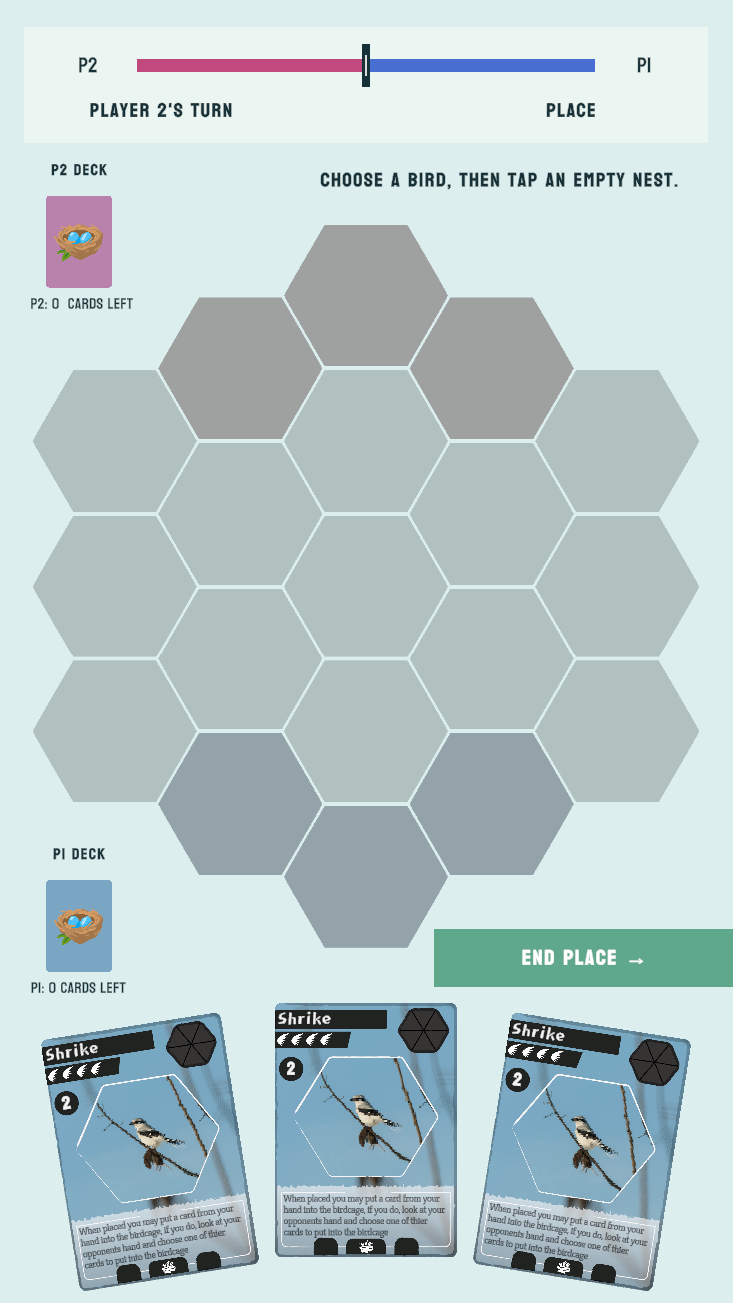
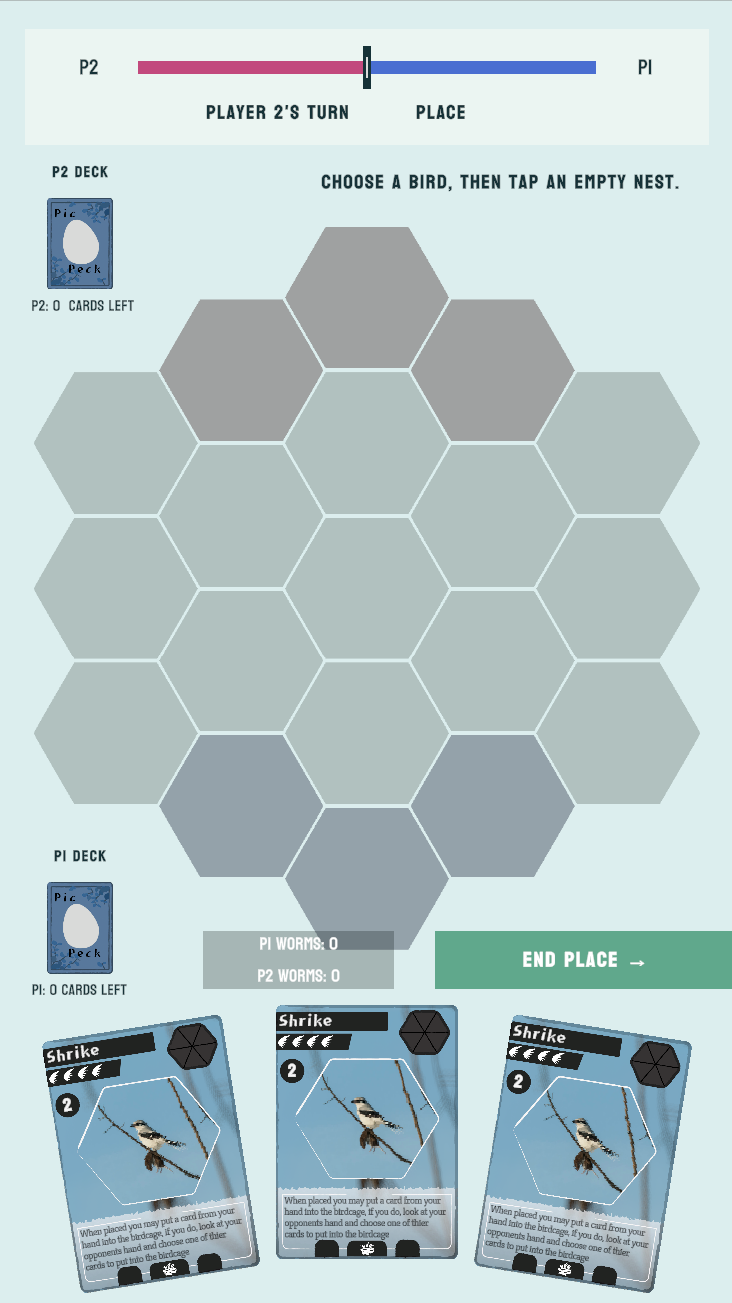
Update Pic Peck gameplay screenshot with new card backs

diff --git a/games/pic-peck/index.html b/games/pic-peck/index.html
@@ -18,6 +18,6 @@
     <a class="wordmark" href="../../" aria-label="Miles Sanger home">Miles Sanger<span class="wordmark-dot" aria-hidden="true">.</span></a>
     <nav aria-label="Main navigation"><a href="../../#work">Games</a><a href="../../about/">About</a><a href="../../#writing">Writing</a><a class="nav-contact" href="mailto:behrenha@usc.edu">Contact</a></nav>
   </header>
-  <main id="main" class="project-page wrap"><a class="back-link text-link" href="../"><span aria-hidden="true">←</span> All games</a><section class="project-intro"><h1>Pic Peck<span class="name-period">.</span></h1><p class="detail-roles">Director · Lead Designer · Producer · Lead Engineer</p><div class="detail-facts"><div><span>Team</span><p>5 people</p></div><div><span>Timeline</span><p>April 2026–present</p></div><div><span>Status</span><p>In development</p></div></div><p class="detail-description">A digital collectable card game based on identifying and taking pictures of birds in the wild.</p><img class="detail-image detail-logo" src="../../assets/games/pic-peck-logo.png" alt="Pic Peck logo: a blue illustrated card with an egg and leafy branches" width="240" height="336" loading="lazy"><img class="detail-image detail-portrait" src="../../assets/games/pic-peck.png" alt="Pic Peck gameplay: a hexagonal board, bird cards, and player decks" width="733" height="1303" loading="lazy"><div class="detail-links"><p class="quiet-label">Demo forthcoming.</p></div><section class="project-gallery" aria-labelledby="screenshots-title"><h2 id="screenshots-title">Screenshots</h2><div class="screenshot-grid card-gallery"><a class="screenshot-link" href="../../assets/games/screenshots/pic-peck-1.webp" target="_blank" rel="noopener noreferrer" style="--image-width:207px" aria-label="Pic Peck Little Blue Heron card (open full image in a new tab)"><img src="../../assets/games/screenshots/pic-peck-1.webp" alt="Pic Peck Little Blue Heron card" width="207" height="273" loading="lazy"></a><a class="screenshot-link" href="../../assets/games/screenshots/pic-peck-2.webp" target="_blank" rel="noopener noreferrer" style="--image-width:673px" aria-label="Six Pic Peck bird cards, including Common Swift, Western Barn Owl, and Common Ostrich (open full image in a new tab)"><img src="../../assets/games/screenshots/pic-peck-2.webp" alt="Six Pic Peck bird cards, including Common Swift, Western Barn Owl, and Common Ostrich" width="673" height="579" loading="lazy"></a></div></section></section><div class="project-closing"><span>Next project</span><a href="../voidwatch/">Voidwatch <span aria-hidden="true">→</span></a></div></main>
+  <main id="main" class="project-page wrap"><a class="back-link text-link" href="../"><span aria-hidden="true">←</span> All games</a><section class="project-intro"><h1>Pic Peck<span class="name-period">.</span></h1><p class="detail-roles">Director · Lead Designer · Producer · Lead Engineer</p><div class="detail-facts"><div><span>Team</span><p>5 people</p></div><div><span>Timeline</span><p>April 2026–present</p></div><div><span>Status</span><p>In development</p></div></div><p class="detail-description">A digital collectable card game based on identifying and taking pictures of birds in the wild.</p><img class="detail-image detail-logo" src="../../assets/games/pic-peck-logo.png" alt="Pic Peck logo: a blue illustrated card with an egg and leafy branches" width="240" height="336" loading="lazy"><img class="detail-image detail-portrait" src="../../assets/games/pic-peck.png" alt="Pic Peck gameplay: a hexagonal board, bird cards, and blue egg-design card backs in both player decks" width="732" height="1303" loading="lazy"><div class="detail-links"><p class="quiet-label">Demo forthcoming.</p></div><section class="project-gallery" aria-labelledby="screenshots-title"><h2 id="screenshots-title">Screenshots</h2><div class="screenshot-grid card-gallery"><a class="screenshot-link" href="../../assets/games/screenshots/pic-peck-1.webp" target="_blank" rel="noopener noreferrer" style="--image-width:207px" aria-label="Pic Peck Little Blue Heron card (open full image in a new tab)"><img src="../../assets/games/screenshots/pic-peck-1.webp" alt="Pic Peck Little Blue Heron card" width="207" height="273" loading="lazy"></a><a class="screenshot-link" href="../../assets/games/screenshots/pic-peck-2.webp" target="_blank" rel="noopener noreferrer" style="--image-width:673px" aria-label="Six Pic Peck bird cards, including Common Swift, Western Barn Owl, and Common Ostrich (open full image in a new tab)"><img src="../../assets/games/screenshots/pic-peck-2.webp" alt="Six Pic Peck bird cards, including Common Swift, Western Barn Owl, and Common Ostrich" width="673" height="579" loading="lazy"></a></div></section></section><div class="project-closing"><span>Next project</span><a href="../voidwatch/">Voidwatch <span aria-hidden="true">→</span></a></div></main>
   <footer class="site-footer wrap"><i class="footer-amp" aria-hidden="true">&amp;</i><p class="footer-tagline">Curiosity <i>&amp;</i> foolishness.</p><small class="footer-copyright">© 2026 Miles Sanger</small></footer>
 </body></html>
